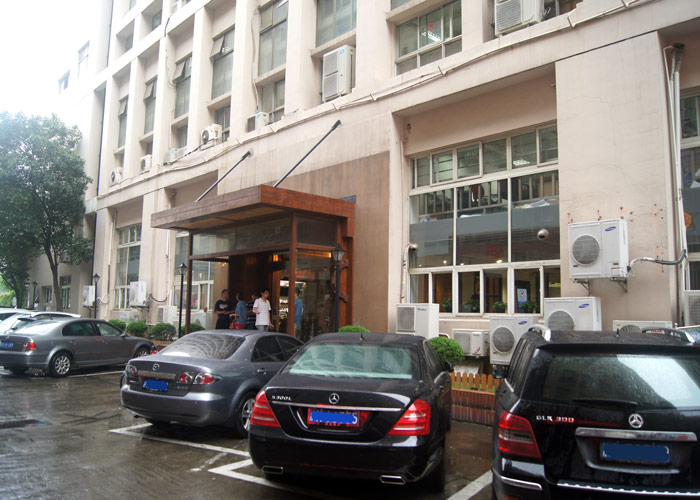
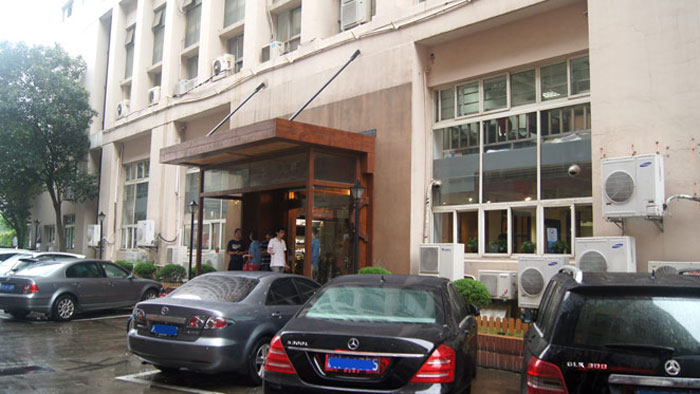
EDITED MENU BAR-> OPENS GITHUB LINKS IN NEW WINDOW, SEPERATE FROM THE OTHER MENU LINKS. EDITED CONTACT PAGE FOTO’S ->MADE THEM LESS HIGH AND PROBABLY RESOLVED A FONT SIZE ISSUE ON THIS PAGE

diff --git a/index.html b/index.html
@@ -30,98 +30,26 @@
     <ul class="nav">
       <li><a href="index.html" title="Home" target="_self">- Home</a></li>
       <li><a href="about.html" title="About" target="_self">About</a></li>
-      <li><a href="service.html" title="Service" target="_self">service</a></li>
+      <li><a href="service.html" title="Service" target="_self">Service</a></li>
       <li><a href="equipment.html" title="Equipment" target="_self">Equipment</a></li>
       <li><a href="projects.html" title="Projects" target="_self">Projects</a></li>
        <li><a href="sponsorship.html" title="sponsorship" target="_self">Sponsorship</a></li>
       <li><a href="contact.html" title="Contact" target="_self">Contact / info</a></li>
-      <li><a href="https://github.com/xinfab/Docs/wiki" title="Wiki" target="_self">Wiki</a></li>
-      <li><a href="https://github.com/xinfab/Docs/blob/master/Waiver/waiver.md" title="Waiver" target="_self">Liability Waiver</a></li>
+    </ul>
+    <p>&nbsp;</p>
+    <ul class="nav">
+      <li><a href="https://github.com/xinfab/Docs/wiki" title="Wiki" target="new">Wiki</a></li>
+      <li><a href="https://github.com/xinfab/Docs/blob/master/Waiver/waiver.md" title="Waiver" target="new">Liability Waiver</a></li>
     </ul>
     <p>&nbsp;</p>
     <!-- end .sidebar1 --></div>
+    
 
   <div class="content">
     <h1>HOME</h1>
     
     
     
-    
-     <script type="text/javascript" src="js/jssor.js"></script>
-    <script type="text/javascript" src="js/jssor.slider.js"></script>
-    <script>
-
-        jssor_slider1_starter = function (containerId) {
-
-            var _SlideshowTransitions = [
-            //Fade
-            { $Duration: 1200, $Opacity: 2 }
-            ];
-
-            var options = {
-                $AutoPlay: true,                                    //[Optional] Whether to auto play, to enable slideshow, this option must be set to true, default value is false
-                $AutoPlaySteps: 1,                                  //[Optional] Steps to go for each navigation request (this options applys only when slideshow disabled), the default value is 1
-                $AutoPlayInterval: 3000,                            //[Optional] Interval (in milliseconds) to go for next slide since the previous stopped if the slider is auto playing, default value is 3000
-                $PauseOnHover: 1,                               //[Optional] Whether to pause when mouse over if a slider is auto playing, 0 no pause, 1 pause for desktop, 2 pause for touch device, 3 pause for desktop and touch device, 4 freeze for desktop, 8 freeze for touch device, 12 freeze for desktop and touch device, default value is 1
-
-                $ArrowKeyNavigation: true,   			            //[Optional] Allows keyboard (arrow key) navigation or not, default value is false
-                $SlideDuration: 500,                                //[Optional] Specifies default duration (swipe) for slide in milliseconds, default value is 500
-                $MinDragOffsetToSlide: 20,                          //[Optional] Minimum drag offset to trigger slide , default value is 20
-                //$SlideWidth: 600,                                 //[Optional] Width of every slide in pixels, default value is width of 'slides' container
-                //$SlideHeight: 300,                                //[Optional] Height of every slide in pixels, default value is height of 'slides' container
-                $SlideSpacing: 0, 					                //[Optional] Space between each slide in pixels, default value is 0
-                $DisplayPieces: 1,                                  //[Optional] Number of pieces to display (the slideshow would be disabled if the value is set to greater than 1), the default value is 1
-                $ParkingPosition: 0,                                //[Optional] The offset position to park slide (this options applys only when slideshow disabled), default value is 0.
-                $UISearchMode: 1,                                   //[Optional] The way (0 parellel, 1 recursive, default value is 1) to search UI components (slides container, loading screen, navigator container, arrow navigator container, thumbnail navigator container etc).
-                $PlayOrientation: 1,                                //[Optional] Orientation to play slide (for auto play, navigation), 1 horizental, 2 vertical, 5 horizental reverse, 6 vertical reverse, default value is 1
-                $DragOrientation: 3,                                //[Optional] Orientation to drag slide, 0 no drag, 1 horizental, 2 vertical, 3 either, default value is 1 (Note that the $DragOrientation should be the same as $PlayOrientation when $DisplayPieces is greater than 1, or parking position is not 0)
-
-                $SlideshowOptions: {                                //[Optional] Options to specify and enable slideshow or not
-                    $Class: $JssorSlideshowRunner$,                 //[Required] Class to create instance of slideshow
-                    $Transitions: _SlideshowTransitions,            //[Required] An array of slideshow transitions to play slideshow
-                    $TransitionsOrder: 1,                           //[Optional] The way to choose transition to play slide, 1 Sequence, 0 Random
-                    $ShowLink: true                                    //[Optional] Whether to bring slide link on top of the slider when slideshow is running, default value is false
-                },
-
-                $BulletNavigatorOptions: {                                //[Optional] Options to specify and enable navigator or not
-                    $Class: $JssorBulletNavigator$,                       //[Required] Class to create navigator instance
-                    $ChanceToShow: 2,                               //[Required] 0 Never, 1 Mouse Over, 2 Always
-                    $AutoCenter: 1,                                 //[Optional] Auto center navigator in parent container, 0 None, 1 Horizontal, 2 Vertical, 3 Both, default value is 0
-                    $Steps: 1,                                      //[Optional] Steps to go for each navigation request, default value is 1
-                    $Lanes: 1,                                      //[Optional] Specify lanes to arrange items, default value is 1
-                    $SpacingX: 10,                                   //[Optional] Horizontal space between each item in pixel, default value is 0
-                    $SpacingY: 10,                                   //[Optional] Vertical space between each item in pixel, default value is 0
-                    $Orientation: 1                                 //[Optional] The orientation of the navigator, 1 horizontal, 2 vertical, default value is 1
-                },
-
-                $ArrowNavigatorOptions: {
-                    $Class: $JssorArrowNavigator$,              //[Requried] Class to create arrow navigator instance
-                    $ChanceToShow: 2,                               //[Required] 0 Never, 1 Mouse Over, 2 Always
-                    $Steps: 1                                       //[Optional] Steps to go for each navigation request, default value is 1
-                }
-            };
-            var jssor_slider1 = new $JssorSlider$(containerId, options);
-
-            //responsive code begin
-            //you can remove responsive code if you don't want the slider scales while window resizes
-            function ScaleSlider() {
-                var parentWidth = jssor_slider1.$Elmt.parentNode.clientWidth;
-                if (parentWidth)
-                    jssor_slider1.$ScaleWidth(Math.min(parentWidth, 600));
-                else
-                    $Jssor$.$Delay(ScaleSlider, 30);
-            }
-
-            ScaleSlider();
-            $Jssor$.$AddEvent(window, "load", ScaleSlider);
-
-            $Jssor$.$AddEvent(window, "resize", $Jssor$.$WindowResizeFilter(window, ScaleSlider));
-            $Jssor$.$AddEvent(window, "orientationchange", ScaleSlider);
-            //responsive code end
-        };
-    </script>
-    <!-- Jssor Slider Begin -->
-    <!-- To move inline styles to css file/block, please specify a class name for each element. -->
     <h2>This Saturday 18 July, sketchup/3d printing workshop</h2>
     <p><img src="photos/news/xinfab_sketchupworkshop.jpg"  />This Saturday 18 July, 14:00 there will be a sketchup workshop including 3d printing with Danny. So if you are interested in Sketchup or 3d printing sent us an <a href="mailto:info@xinfab.com">email </a>to sign up. You can also only participate in the Sketchup or only in the 3d printing workshop.<br />
       Workshop fee is 200 rmb, which includes a small 3d print of your own drawing.

diff --git a/contact.html b/contact.html
@@ -26,18 +26,24 @@
   <p align="center">
   <a href="#"><img src="LOGO/fablab_logo_red.gif" alt="xinfab" width="342" height="205" id="Insert_logo" style="background-color: #FFFFFF; display:block;" /></a> </p>
   </div>
-   <div class="sidebar1">
+  <div class="sidebar1">
     <ul class="nav">
       <li><a href="index.html" title="Home" target="_self">Home</a></li>
       <li><a href="about.html" title="About" target="_self">About</a></li>
-      <li><a href="service.html" title="Xinfab Service" target="_self">Xinfab service</a></li>
+      <li><a href="service.html" title="Service" target="_self">Service</a></li>
       <li><a href="equipment.html" title="Equipment" target="_self">Equipment</a></li>
       <li><a href="projects.html" title="Projects" target="_self">Projects</a></li>
        <li><a href="sponsorship.html" title="sponsorship" target="_self">Sponsorship</a></li>
       <li><a href="contact.html" title="Contact" target="_self">- Contact / info</a></li>
     </ul>
     <p>&nbsp;</p>
+    <ul class="nav">
+      <li><a href="https://github.com/xinfab/Docs/wiki" title="Wiki" target="new">Wiki</a></li>
+      <li><a href="https://github.com/xinfab/Docs/blob/master/Waiver/waiver.md" title="Waiver" target="_blank">Liability Waiver</a></li>
+    </ul>
+    <p>&nbsp;</p>
     <!-- end .sidebar1 --></div>
+    
 
   <div class="content">
     <h1>CONTACT / INFO</h1>
@@ -52,17 +58,14 @@
     </p>
     <h3>Map<br />
       <img src="elements/xinfab_fablab_shanghai_jingan_address.gif" width="710" height="450" alt="address map" /></h3>
-    <h3>Entrance of the building<img src="photos/space/xinfab_entrance_1s.jpg" width="700" height="500" /></h3>
+    <h3>Entrance of the building<img src="photos/space/xinfab_entrance_1s.jpg"/></h3>
     <h3>Reception<br />
-      <img src="photos/space/xinfab_entrance_2s.jpg" width="700" height="500" /></h3>
+      <img src="photos/space/xinfab_entrance_2s.jpg"  /></h3>
     <h3>Entrance of Xinfab space<br />
-      <img src="photos/space/xinfab_entrance_3s.jpg" width="700" height="500" /></h3>
+      <img src="photos/space/xinfab_entrance_3s.jpg" /></h3>
     <p>&nbsp;</p>
-    <p>
-      <br />
-      
-    </p> 
-    <h3>Opening hours:   
+   
+    <P><h3>Opening hours:   
     </h3>
    <table width="374" border="0">
       <tr>
@@ -100,14 +103,15 @@
         <td>Sunday</td>
         <td>13:00 - 21:00</td>
       </tr>
-    </table>
+    </table></P>
    
    
     <h4>&nbsp;</h4>
     <h3>Membership &amp; prices:   </h3>
     <p>With a membership you buy credits with the value of your membership and these credits are valid for the period of your membership. If you have a 1 month membership  you can print/lasercut/cnc up to the amount of your credits, do you exceed your credits then just top up your membership or pay for your use directly.<br />
-      When your membership expires, your credit also expire unless you extend your membership.<br />
-    </p>
+    When your membership expires, your credit also expire unless you extend your membership.</p>
+    <p><br />
+   
     
     <table width="780" border="0">
  
@@ -130,7 +134,7 @@
   </tr>
 
 </table>
-
+ </p>
     <p></p>
     
     <h4>&nbsp;</h4>
@@ -141,9 +145,11 @@
          is 4 rmb/gram.<br />
        For people/companies who need to have something printed and already have a correct 3d (.stl) file we will print the object for you and also provide delivery service.       </p>
        
+       <P>
+       
     <table width="780" border="0">
       <tr>
-  <td width="19"></td>
+  <td width="19" height="30"></td>
     <td width="176"><strong>3D printing</strong></td>
     <td width="310">2 rmb/gram (100% diy, no service)</td>
     <td width="257">incl. pay for print failure</td>
@@ -167,7 +173,7 @@
     <td>&nbsp;</td>
   </tr>
 
-</table>
+</table></P>
            
        
        <p>&nbsp;</p>
@@ -177,7 +183,7 @@
        charged.<br />
        Material for these machines can be bought at Xinfab, taobao or you can bring the materials yourself.    </p>
     
-    
+    <P>
     
     <table width="780" border="0">
       <tr>
@@ -198,7 +204,7 @@
     <td>&nbsp;</td>
   </tr>
    
-    </table>
+    </table></P>
    
    
     <h4>&nbsp;</h4>

diff --git a/service.html b/service.html
@@ -30,18 +30,24 @@
     <ul class="nav">
       <li><a href="index.html" title="Home" target="_self">Home</a></li>
       <li><a href="about.html" title="About" target="_self">About</a></li>
-      <li><a href="service.html" title="Xinfab Service" target="_self">- Xinfab service</a></li>
+      <li><a href="service.html" title="Service" target="_self">- Service</a></li>
       <li><a href="equipment.html" title="Equipment" target="_self">Equipment</a></li>
       <li><a href="projects.html" title="Projects" target="_self">Projects</a></li>
        <li><a href="sponsorship.html" title="sponsorship" target="_self">Sponsorship</a></li>
       <li><a href="contact.html" title="Contact" target="_self">Contact / info</a></li>
     </ul>
     <p>&nbsp;</p>
+    <ul class="nav">
+      <li><a href="https://github.com/xinfab/Docs/wiki" title="Wiki" target="new">Wiki</a></li>
+      <li><a href="https://github.com/xinfab/Docs/blob/master/Waiver/waiver.md" title="Waiver" target="new">Liability Waiver</a></li>
+    </ul>
+    <p>&nbsp;</p>
     <!-- end .sidebar1 --></div>
+    
 
 
   <div class="content">
-    <h1>XINFAB SERVICE    </h1>
+    <h1>SERVICE </h1>
     <h2><img src="photos/general/xinfab_3dprinter1w.jpg" width="770" height="434" /></h2>
     <h2>Business</h2>
     <p>From startups to non profit organizations to big commercial companies we offer  services like <br />

diff --git a/equipment.html b/equipment.html
@@ -28,16 +28,22 @@
   </div>
   <div class="sidebar1">
     <ul class="nav">
-      <li><a href="index.html" title="Home" target="_self">Home</a></li>
+      <li><a href="index.html" title="Home" target="_self"> Home</a></li>
       <li><a href="about.html" title="About" target="_self">About</a></li>
-      <li><a href="service.html" title="Xinfab Service" target="_self">Xinfab service</a></li>
+      <li><a href="service.html" title="Service" target="_self">Service</a></li>
       <li><a href="equipment.html" title="Equipment" target="_self">- Equipment</a></li>
       <li><a href="projects.html" title="Projects" target="_self">Projects</a></li>
        <li><a href="sponsorship.html" title="sponsorship" target="_self">Sponsorship</a></li>
       <li><a href="contact.html" title="Contact" target="_self">Contact / info</a></li>
     </ul>
     <p>&nbsp;</p>
+    <ul class="nav">
+      <li><a href="https://github.com/xinfab/Docs/wiki" title="Wiki" target="new">Wiki</a></li>
+      <li><a href="https://github.com/xinfab/Docs/blob/master/Waiver/waiver.md" title="Waiver" target="new">Liability Waiver</a></li>
+    </ul>
+    <p>&nbsp;</p>
     <!-- end .sidebar1 --></div>
+    
 
 
   <div class="content">

diff --git a/about.html b/about.html
@@ -16,7 +16,6 @@
 
 	<link rel="stylesheet" type="text/css" href="xinfab.css" />
 
-
 </head>
 
 <body>
@@ -30,14 +29,20 @@
     <ul class="nav">
       <li><a href="index.html" title="Home" target="_self">Home</a></li>
       <li><a href="about.html" title="About" target="_self">- About</a></li>
-      <li><a href="service.html" title="Xinfab Service" target="_self">Xinfab service</a></li>
+      <li><a href="service.html" title="Service" target="_self">Service</a></li>
       <li><a href="equipment.html" title="Equipment" target="_self">Equipment</a></li>
       <li><a href="projects.html" title="Projects" target="_self">Projects</a></li>
        <li><a href="sponsorship.html" title="sponsorship" target="_self">Sponsorship</a></li>
       <li><a href="contact.html" title="Contact" target="_self">Contact / info</a></li>
     </ul>
     <p>&nbsp;</p>
+    <ul class="nav">
+      <li><a href="https://github.com/xinfab/Docs/wiki" title="Wiki" target="new">Wiki</a></li>
+      <li><a href="https://github.com/xinfab/Docs/blob/master/Waiver/waiver.md" title="Waiver" target="new">Liability Waiver</a></li>
+    </ul>
+    <p>&nbsp;</p>
     <!-- end .sidebar1 --></div>
+    
 
 
   <div class="content">

diff --git a/projects.html b/projects.html
@@ -30,14 +30,20 @@
     <ul class="nav">
       <li><a href="index.html" title="Home" target="_self">Home</a></li>
       <li><a href="about.html" title="About" target="_self">About</a></li>
-      <li><a href="service.html" title="Xinfab Service" target="_self">Xinfab service</a></li>
+      <li><a href="service.html" title="Service" target="_self">Service</a></li>
       <li><a href="equipment.html" title="Equipment" target="_self">Equipment</a></li>
       <li><a href="projects.html" title="Projects" target="_self">- Projects</a></li>
        <li><a href="sponsorship.html" title="sponsorship" target="_self">Sponsorship</a></li>
       <li><a href="contact.html" title="Contact" target="_self">Contact / info</a></li>
     </ul>
     <p>&nbsp;</p>
+    <ul class="nav">
+      <li><a href="https://github.com/xinfab/Docs/wiki" title="Wiki" target="new">Wiki</a></li>
+      <li><a href="https://github.com/xinfab/Docs/blob/master/Waiver/waiver.md" title="Waiver" target="new">Liability Waiver</a></li>
+    </ul>
+    <p>&nbsp;</p>
     <!-- end .sidebar1 --></div>
+    
 
 
   <div class="content">

diff --git a/sponsorship.html b/sponsorship.html
@@ -30,14 +30,20 @@
     <ul class="nav">
       <li><a href="index.html" title="Home" target="_self">Home</a></li>
       <li><a href="about.html" title="About" target="_self">About</a></li>
-      <li><a href="service.html" title="Xinfab Service" target="_self">Xinfab service</a></li>
+      <li><a href="service.html" title="Service" target="_self">Service</a></li>
       <li><a href="equipment.html" title="Equipment" target="_self">Equipment</a></li>
       <li><a href="projects.html" title="Projects" target="_self">Projects</a></li>
        <li><a href="sponsorship.html" title="sponsorship" target="_self">- Sponsorship</a></li>
       <li><a href="contact.html" title="Contact" target="_self">Contact / info</a></li>
     </ul>
     <p>&nbsp;</p>
+    <ul class="nav">
+      <li><a href="https://github.com/xinfab/Docs/wiki" title="Wiki" target="new">Wiki</a></li>
+      <li><a href="https://github.com/xinfab/Docs/blob/master/Waiver/waiver.md" title="Waiver" target="new">Liability Waiver</a></li>
+    </ul>
+    <p>&nbsp;</p>
     <!-- end .sidebar1 --></div>
+    
 
 
   <div class="content">
